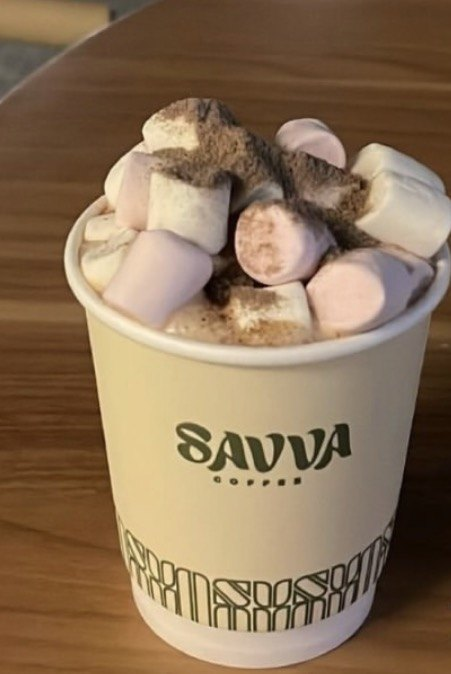
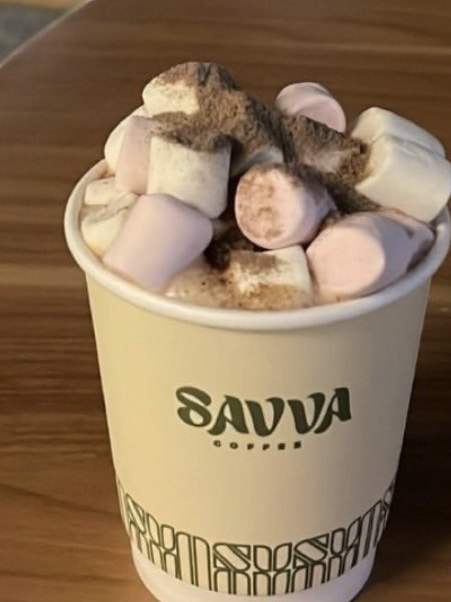
Add mango cheesecake, hot chocolate and the date cookie to the menu
Three photos were waiting on prices the cafe never supplied. Asked, and the
answer was to fill in approximations, so these carry placeholder figures
chosen from neighbouring items rather than anything the cafe quoted: mango
cheesecake 27 like the blueberry one, hot chocolate 19, cookie 12. They are
drafts and should be replaced with the real numbers.

The mango shot came in as an Instagram screenshot. The photo sits between
the dark interface panels, so the crop is taken from the bright block
detected at rows 666 to 2419, then tightened onto the cake, which otherwise
read much smaller in its arch than the desserts beside it. The cocoa photo
was also finished to a true 3:4 rather than the 0.669 it was left at.

Names are Latin like the rest of the menu and only the descriptions are
translated. Desserts now hold six items and hot drinks nine.

Claude-Session: https://claude.ai/code/session_01GTjnjJD4AkcsVSq1Vw7wdR

diff --git a/savva/index.html b/savva/index.html
@@ -1539,6 +1539,14 @@ footer {
           </div>
         </article>
 
+        <article class="dish" data-cat="hot">
+          <div class="dish__ph"><img src="images/menu-cocoa.jpg" alt="Hot Chocolate" loading="lazy"></div>
+          <div class="dish__body">
+            <div><p class="dish__name">Hot Chocolate</p><p class="dish__desc" data-i18n="d.cocoa">какао с маршмеллоу</p></div>
+            <p class="dish__price">19 ﷼</p>
+          </div>
+        </article>
+
         <article class="dish" data-cat="cold">
           <div class="dish__ph"><img src="images/menu-melon.jpg" alt="Savva Melon" loading="lazy"></div>
           <div class="dish__body">
@@ -1588,6 +1596,14 @@ footer {
         </article>
 
         <article class="dish" data-cat="dessert">
+          <div class="dish__ph"><img src="images/menu-mango-cheesecake.jpg" alt="Mango Cheesecake" loading="lazy"></div>
+          <div class="dish__body">
+            <div><p class="dish__name">Mango Cheesecake</p><p class="dish__desc" data-i18n="d.mango">чизкейк со свежим манго</p></div>
+            <p class="dish__price">27 ﷼</p>
+          </div>
+        </article>
+
+        <article class="dish" data-cat="dessert">
           <div class="dish__ph"><img src="images/menu-pecan.jpg" alt="Pecan Cake" loading="lazy"></div>
           <div class="dish__body">
             <div><p class="dish__name">Pecan Cake</p><p class="dish__desc" data-i18n="d.pecan">карамель и пекан</p></div>
@@ -1608,6 +1624,14 @@ footer {
           <div class="dish__body">
             <div><p class="dish__name">Chocolate Cake</p><p class="dish__desc" data-i18n="d.choco">влажный шоколадный бисквит</p></div>
             <p class="dish__price">17 ﷼</p>
+          </div>
+        </article>
+
+        <article class="dish" data-cat="dessert">
+          <div class="dish__ph"><img src="images/menu-cookie.jpg" alt="Date and Cardamom Cookie" loading="lazy"></div>
+          <div class="dish__body">
+            <div><p class="dish__name">Date &amp; Cardamom Cookie</p><p class="dish__desc" data-i18n="d.cookie">финики, фисташки, кардамон</p></div>
+            <p class="dish__price">12 ﷼</p>
           </div>
         </article>
 
@@ -2026,6 +2050,7 @@ footer {
       'd.hib': 'каркаде, лёд, ягодная нота', 'd.cheese': 'чизкейк со свежими ягодами',
       'd.pecan': 'карамель и пекан', 'd.dan': 'слоёная выпечка с корицей',
       'd.choco': 'влажный шоколадный бисквит', 'd.turkey': 'индейка, сыр, зелень', 'd.hall': 'халуми, овощи, соус',
+      'd.cocoa': 'какао с маршмеллоу', 'd.mango': 'чизкейк со свежим манго', 'd.cookie': 'финики, фисташки, кардамон',
       'builder.eyebrow': 'Конструктор', 'builder.h2': 'Соберите свою чашку',
       'builder.note': 'Выберите основу, молоко и характер — мы посчитаем цену и придумаем имя.',
       'builder.hint': 'Покажите бариста — соберём точно так же.',
@@ -2100,6 +2125,7 @@ footer {
       'd.hib': 'hibiscus, ice, a berry note', 'd.cheese': 'cheesecake with fresh berries',
       'd.pecan': 'caramel and pecan', 'd.dan': 'flaky pastry with cinnamon',
       'd.choco': 'moist chocolate sponge', 'd.turkey': 'turkey, cheese, greens', 'd.hall': 'halloumi, vegetables, sauce',
+      'd.cocoa': 'cocoa with marshmallows', 'd.mango': 'cheesecake with fresh mango', 'd.cookie': 'dates, pistachio, cardamom',
       'builder.eyebrow': 'Build a cup', 'builder.h2': 'Build your own cup',
       'builder.note': "Pick a base, milk and character — we'll do the maths and the name.",
       'builder.hint': "Show it to the barista — we'll make exactly this.",
@@ -2174,6 +2200,7 @@ footer {
       'd.hib': 'كركديه وثلج بلمسة توت', 'd.cheese': 'تشيز كيك بالتوت الطازج',
       'd.pecan': 'كراميل وجوز البيكان', 'd.dan': 'معجنات هشّة بالقرفة',
       'd.choco': 'كيك شوكولاتة طري', 'd.turkey': 'ديك رومي وجبن وخضار', 'd.hall': 'حلوم وخضار وصلصة',
+      'd.cocoa': 'كاكاو مع المارشميلو', 'd.mango': 'تشيز كيك بالمانجو الطازج', 'd.cookie': 'تمر وفستق وهيل',
       'builder.eyebrow': 'اصنع كوبك', 'builder.h2': 'اصنع كوبك بنفسك',
       'builder.note': 'اختر الأساس والحليب والطابع، ونحن نحسب السعر ونختار الاسم.',
       'builder.hint': 'أرِ الباريستا هذه الشاشة، وسنحضّرها تمامًا.',
